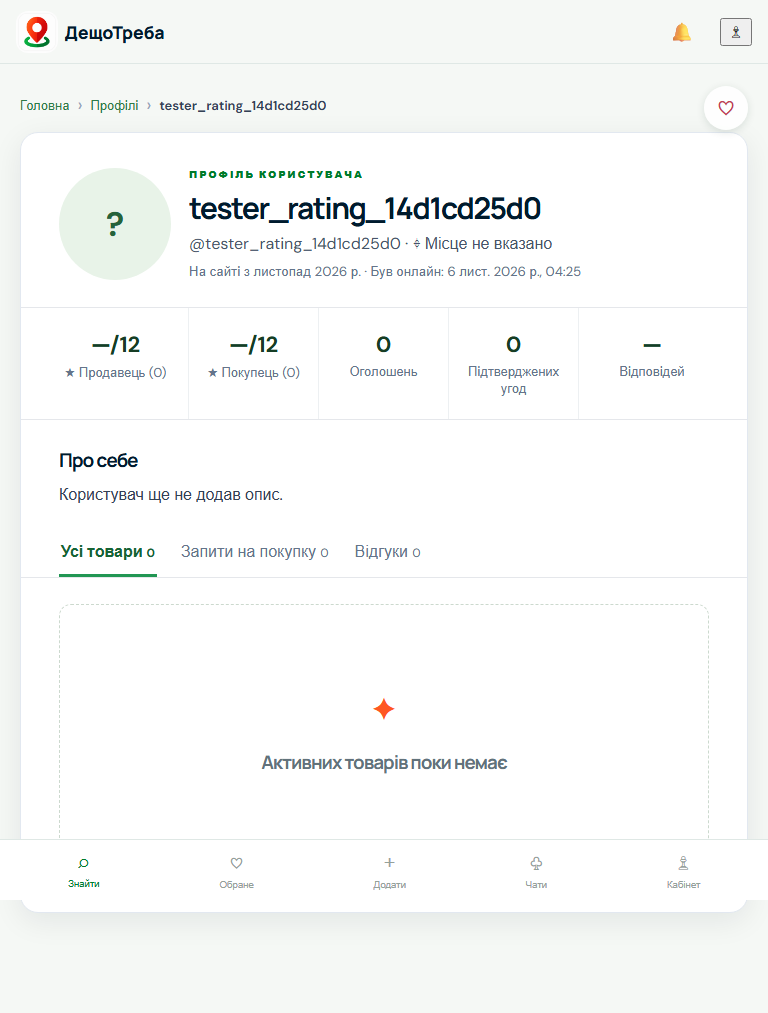
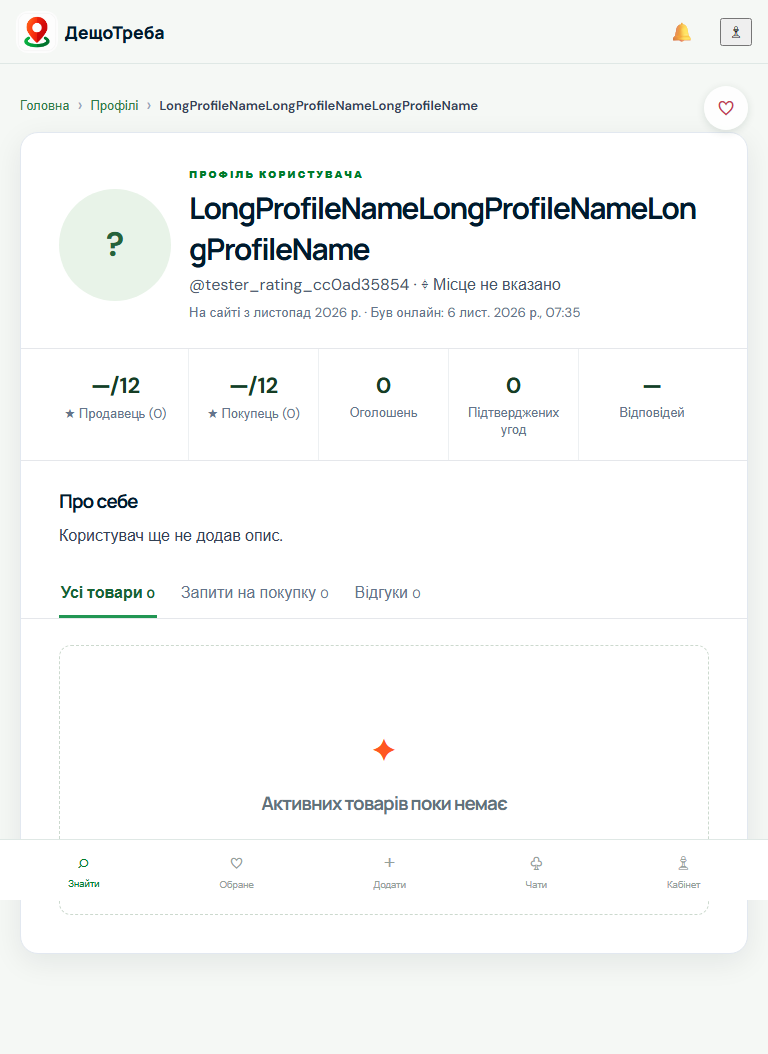
Виправити рейтинги після скасування угоди

diff --git a/frontend/src/App.css b/frontend/src/App.css
@@ -17,7 +17,7 @@
 .detail-actions{display:flex;gap:12px;align-items:center;margin-top:16px}
 .detail-respond-hint{color:#64748b;font-size:13px;margin-top:12px}
 .public-detail-page{max-width:1080px;margin:0 auto;padding:32px 20px}.public-detail-page>.text-button{display:inline-block;margin-bottom:20px}.listing-detail-page,.profile-public-page{background:#fff;border:1px solid #e2e8f0;border-radius:18px;overflow:hidden;box-shadow:0 8px 30px rgba(15,23,42,.08)}.listing-detail-page{display:grid;grid-template-columns:minmax(280px,1fr) minmax(320px,1fr)}.listing-detail-page>.listing-picture{min-height:360px}.listing-detail-page>.listing-picture img{width:100%;height:100%;object-fit:cover}.listing-detail-page .detail-body{padding:32px}.detail-body>.outline-button,.detail-body>.primary-button{display:inline-block;margin:12px 8px 0 0}.request-detail-page{display:block;max-width:760px}.profile-public-page{max-width:760px;padding:32px}.profile-public-page header{display:flex;gap:18px;align-items:center}.profile-public-page header img{width:88px;height:88px;border-radius:50%;object-fit:cover}.profile-public-page h1,.listing-detail-page h1{margin:.35rem 0}.request-card h3 a{color:inherit;text-decoration:none}.request-card h3 a:hover{text-decoration:underline}@media(max-width:700px){.public-detail-page{padding:20px 14px}.listing-detail-page{grid-template-columns:1fr}.listing-detail-page>.listing-picture{min-height:240px}.listing-detail-page .detail-body,.profile-public-page{padding:22px}}
-.profile-public-page{max-width:980px;padding:0;background:#fff}.public-profile-header{padding:34px 38px 26px;display:flex;align-items:center;gap:22px;border-bottom:1px solid #e5e7eb}.public-profile-avatar{width:112px;height:112px;flex:0 0 112px;border-radius:50%;overflow:hidden;background:#e8f3e8;color:#25633a;display:grid;place-items:center;font-size:34px}.public-profile-avatar img{width:100%!important;height:100%!important;border-radius:0!important;object-fit:cover}.public-profile-title{min-width:0;flex:1}.public-profile-title h1{font-size:30px}.public-profile-title p{margin:5px 0;color:#475569}.public-profile-title small{color:#64748b}.profile-call{white-space:nowrap}.public-profile-stats{display:grid;grid-template-columns:repeat(5,1fr);padding:0 38px;border-bottom:1px solid #e5e7eb}.public-profile-stats>div{padding:22px 16px;border-right:1px solid #edf0f2;text-align:center}.public-profile-stats>div:first-child{padding-left:0}.public-profile-stats>div:last-child{border-right:0;padding-right:0}.public-profile-stats b{display:block;font-size:22px;color:#163d25}.public-profile-stats span{display:block;margin-top:4px;color:#64748b;font-size:13px}.public-profile-bio{padding:27px 38px 18px}.public-profile-bio h2{margin:0 0 9px;font-size:19px}.public-profile-bio p{white-space:pre-line;line-height:1.6;color:#334155;margin:0}.public-profile-tabs{display:flex;gap:22px;padding:0 38px;border-bottom:1px solid #e5e7eb}.public-profile-tabs button{border:0;border-bottom:3px solid transparent;background:transparent;padding:15px 2px 12px;color:#64748b;font:inherit;cursor:pointer}.public-profile-tabs button.active{color:#176434;border-color:#219653;font-weight:700}.public-profile-tabs small{font-size:12px}.public-profile-content{padding:26px 38px 38px}.profile-request-list,.profile-review-list{display:grid;gap:12px}.profile-request-row{display:flex;justify-content:space-between;align-items:center;gap:20px;padding:16px 18px;border:1px solid #e2e8f0;border-radius:12px;color:#1e293b;text-decoration:none}.profile-request-row:hover{border-color:#66a77c;background:#f8fcf8}.profile-request-row span{display:grid;gap:4px}.profile-request-row small{color:#64748b}.profile-request-row>span:last-child{text-align:right}.profile-review{padding:17px 18px;border:1px solid #e2e8f0;border-radius:12px}.profile-review div{display:flex;justify-content:space-between;gap:12px}.profile-review b{color:#d78b16;letter-spacing:1px}.profile-review small{color:#64748b}.profile-review p{margin:10px 0 0;color:#334155}@media(max-width:700px){.profile-public-page{padding:0}.public-profile-header{padding:25px 20px;align-items:flex-start;flex-wrap:wrap}.public-profile-avatar{width:76px;height:76px;flex-basis:76px;font-size:24px}.public-profile-title h1{font-size:24px}.profile-call{width:100%}.public-profile-stats{padding:0 12px;grid-template-columns:repeat(2,1fr)}.public-profile-stats>div{padding:15px 8px;border-bottom:1px solid #edf0f2}.public-profile-stats>div:nth-child(2){border-right:0}.public-profile-bio,.public-profile-content{padding-left:20px;padding-right:20px}.public-profile-tabs{padding:0 20px;gap:14px;overflow-x:auto}.public-profile-tabs button{white-space:nowrap;font-size:14px}.profile-request-row{align-items:flex-start}.profile-request-row>span:last-child{font-size:13px}}
+.profile-public-page{max-width:980px;padding:0;background:#fff}.public-profile-header{padding:34px 38px 26px;display:flex;align-items:center;gap:22px;border-bottom:1px solid #e5e7eb}.public-profile-avatar{width:112px;height:112px;flex:0 0 112px;border-radius:50%;overflow:hidden;background:#e8f3e8;color:#25633a;display:grid;place-items:center;font-size:34px}.public-profile-avatar img{width:100%!important;height:100%!important;border-radius:0!important;object-fit:cover}.public-profile-title{min-width:0;flex:1}.public-profile-title h1{font-size:30px;overflow-wrap:anywhere}.public-profile-title p{overflow-wrap:anywhere}.public-profile-title p{margin:5px 0;color:#475569}.public-profile-title small{color:#64748b}.profile-call{white-space:nowrap}.public-profile-stats{display:grid;grid-template-columns:repeat(5,1fr);padding:0 38px;border-bottom:1px solid #e5e7eb}.public-profile-stats>div{padding:22px 16px;border-right:1px solid #edf0f2;text-align:center}.public-profile-stats>div:first-child{padding-left:0}.public-profile-stats>div:last-child{border-right:0;padding-right:0}.public-profile-stats b{display:block;font-size:22px;color:#163d25}.public-profile-stats span{display:block;margin-top:4px;color:#64748b;font-size:13px}.public-profile-bio{padding:27px 38px 18px}.public-profile-bio h2{margin:0 0 9px;font-size:19px}.public-profile-bio p{white-space:pre-line;line-height:1.6;color:#334155;margin:0}.public-profile-tabs{display:flex;gap:22px;padding:0 38px;border-bottom:1px solid #e5e7eb}.public-profile-tabs button{border:0;border-bottom:3px solid transparent;background:transparent;padding:15px 2px 12px;color:#64748b;font:inherit;cursor:pointer}.public-profile-tabs button.active{color:#176434;border-color:#219653;font-weight:700}.public-profile-tabs small{font-size:12px}.public-profile-content{padding:26px 38px 38px}.profile-request-list,.profile-review-list{display:grid;gap:12px}.profile-request-row{display:flex;justify-content:space-between;align-items:center;gap:20px;padding:16px 18px;border:1px solid #e2e8f0;border-radius:12px;color:#1e293b;text-decoration:none}.profile-request-row:hover{border-color:#66a77c;background:#f8fcf8}.profile-request-row span{display:grid;gap:4px}.profile-request-row small{color:#64748b}.profile-request-row>span:last-child{text-align:right}.profile-review{padding:17px 18px;border:1px solid #e2e8f0;border-radius:12px}.profile-review div{display:flex;justify-content:space-between;gap:12px}.profile-review b{color:#d78b16;letter-spacing:1px}.profile-review small{color:#64748b}.profile-review p{margin:10px 0 0;color:#334155}@media(max-width:700px){.profile-public-page{padding:0}.public-profile-header{padding:25px 20px;align-items:flex-start;flex-wrap:wrap}.public-profile-avatar{width:76px;height:76px;flex-basis:76px;font-size:24px}.public-profile-title h1{font-size:24px}.profile-call{width:100%}.public-profile-stats{padding:0 12px;grid-template-columns:repeat(2,1fr)}.public-profile-stats>div{padding:15px 8px;border-bottom:1px solid #edf0f2}.public-profile-stats>div:nth-child(2){border-right:0}.public-profile-bio,.public-profile-content{padding-left:20px;padding-right:20px}.public-profile-tabs{padding:0 20px;gap:14px;overflow-x:auto}.public-profile-tabs button{white-space:nowrap;font-size:14px}.profile-request-row{align-items:flex-start}.profile-request-row>span:last-child{font-size:13px}}
 .detail-market-header{position:relative;z-index:1}.listing-page-layout{display:grid;grid-template-columns:minmax(0,1fr) 270px;gap:22px;align-items:start}.listing-page-layout .listing-detail-page{display:grid;grid-template-columns:minmax(280px,.9fr) minmax(320px,1.1fr)}.listing-page-layout .request-detail-page{display:block}.listing-description{margin-top:26px;padding-top:22px;border-top:1px solid #e5e7eb}.listing-description h2{font-size:18px;margin:0 0 10px}.listing-description p{line-height:1.65;color:#475569}.listing-person-card{background:#fff;border:1px solid #e2e8f0;border-radius:16px;padding:18px;box-shadow:0 4px 16px rgba(15,23,42,.05)}.listing-person-heading{display:flex;align-items:center;gap:12px}.listing-person-avatar{width:48px;height:48px;flex:0 0 48px;border-radius:50%;overflow:hidden;background:#e8f3e8;color:#1d6a39;display:grid;place-items:center;font-weight:700}.listing-person-avatar img{width:100%;height:100%;object-fit:cover}.listing-person-heading>div:last-child{display:grid;gap:2px;min-width:0}.listing-person-heading small,.listing-person-heading span,.listing-person-card>p{font-size:12px;color:#64748b}.listing-person-heading strong{font-size:15px}.listing-person-card>p{margin:16px 0 10px}.listing-person-stats{display:flex;gap:10px;padding:10px 0 15px;border-top:1px solid #edf0f2}.listing-person-stats span{font-size:11px;color:#64748b;display:grid;gap:2px}.listing-person-stats b{font-size:15px;color:#1f5130}@media(max-width:900px){.listing-page-layout{grid-template-columns:1fr}.listing-page-layout .listing-detail-page{grid-template-columns:1fr}.listing-person-card{max-width:none}.listing-person-stats{gap:30px}}@media(max-width:700px){.detail-market-header .market-header-inner{padding:10px 14px}.detail-market-header .market-add{display:none}.detail-market-header .market-account{font-size:12px}.listing-page-layout .listing-detail-page .detail-body{padding:22px}}
 .breadcrumbs{display:flex;align-items:center;flex-wrap:wrap;gap:8px;margin:0 0 18px;color:#64748b;font-size:13px}.breadcrumbs a{color:#2d7c47;text-decoration:none}.breadcrumbs a:hover{text-decoration:underline}.breadcrumbs span{display:flex;align-items:center;gap:8px}.breadcrumbs i{font-style:normal;color:#94a3b8;font-size:18px;line-height:1}.breadcrumbs b{color:#334155;font-weight:600;max-width:360px;overflow:hidden;text-overflow:ellipsis;white-space:nowrap}
 .main-area{display:flex;flex-direction:column}.main-area>.topbar{order:-2}.main-area>.view-breadcrumbs{order:-1;margin:18px clamp(16px,3vw,40px) 0}.main-area>.view-breadcrumbs b{max-width:min(50vw,520px)}@media(max-width:560px){.main-area>.view-breadcrumbs{flex-wrap:nowrap;overflow:hidden;margin:12px 16px 0}.main-area>.view-breadcrumbs>a:first-child{display:none}.main-area>.view-breadcrumbs span{min-width:0}.main-area>.view-breadcrumbs b,.main-area>.view-breadcrumbs a{overflow:hidden;text-overflow:ellipsis;white-space:nowrap}}
@@ -134,3 +134,5 @@
 .search-bar > input[type="search"]{flex:1 1 55%;min-width:12rem;color:var(--ink)}
 .search-bar > .settlement-picker{flex:0 1 320px;width:auto;min-width:0}
 @media(max-width:600px){.search-bar{display:grid;grid-template-columns:minmax(0,1fr) auto;align-items:end}.search-bar > span{display:none}.search-bar > input[type="search"]{grid-column:1 / -1;width:100%;min-width:0;border-bottom:1px solid var(--line)}.search-bar > .settlement-picker{grid-column:1;width:100%}.search-bar > button{grid-column:2;min-height:44px}}
+
+.public-detail-page:has(.profile-public-page) > .breadcrumbs span{min-width:0;max-width:100%}.public-detail-page:has(.profile-public-page) > .breadcrumbs b{min-width:0}

diff --git a/docs/qa/step-29/profile.spec.ts b/docs/qa/step-29/profile.spec.ts
@@ -7,6 +7,8 @@ test('public profile displays both role ratings at six widths', async ({ browser
     const username = `tester_rating_${suffix}`
     const result = await context.request.post('/api/auth/register', { data: { username, email: `${username}@example.com`, countryCode: 'UA', phone: `+38067${String(Math.floor(Math.random() * 1e7)).padStart(7, '0')}`, password: 'StrongPassword1', passwordConfirmation: 'StrongPassword1' } })
     expect(result.status()).toBe(201)
+    const longName = 'LongProfileName'.repeat(3)
+    expect((await context.request.patch('/api/profile/me', { data: { nickname: longName } })).status()).toBe(200)
     const page = await context.newPage()
     await page.goto(`/profiles/${username}`)
     for (const width of [320, 390, 768, 1024, 1280, 1440]) {
@@ -14,6 +16,9 @@ test('public profile displays both role ratings at six widths', async ({ browser
         await expect(page.getByText('★ Продавець (0)')).toBeVisible()
         await expect(page.getByText('★ Покупець (0)')).toBeVisible()
         expect(await page.evaluate(() => document.documentElement.scrollWidth <= innerWidth)).toBeTruthy()
+        const title = page.locator('.public-profile-title h1')
+        await expect(title).toHaveText(longName)
+        expect(await title.evaluate(element => element.scrollWidth <= element.clientWidth)).toBeTruthy()
         await page.screenshot({ path: `docs/qa/step-29/profile-${width}.png`, fullPage: true })
     }
     await context.close()
@@ -59,9 +64,8 @@ test('Product and Buy Request use the relevant participant rating', async ({ bro
     expect((await seller.request.post(`/api/orders/${orderId}/complete`)).status()).toBe(200)
     for (const [context, rating, role] of [[buyer, '12', 'продавця'], [seller, '7', 'покупця']] as const) {
         const reviewPage = await context.newPage()
-        await reviewPage.setViewportSize({ width: 1280, height: 900 })
-        await reviewPage.goto('/')
-        await reviewPage.getByRole('button', { name: /Мої угоди/ }).first().click()
+        await reviewPage.setViewportSize({ width: 390, height: 900 })
+        await reviewPage.goto(`/orders?order=${orderId}`)
         const card = reviewPage.locator(`#order-${orderId}`)
         await card.getByRole('button', { name: 'Залишити відгук' }).click()
         const form = card.getByRole('form', { name: new RegExp(`Відгук про ${role}`) })
@@ -69,7 +73,7 @@ test('Product and Buy Request use the relevant participant rating', async ({ bro
         await form.locator('[name=communicationRating]').selectOption(rating)
         await form.locator('[name=complianceRating]').selectOption(rating)
         if (role === 'продавця') await form.locator('[name=descriptionRating]').selectOption(rating)
-        await reviewPage.screenshot({ path: `docs/qa/step-29/review-${role}.png`, fullPage: true })
+        await reviewPage.screenshot({ path: `docs/qa/step-29/review-390-${role}.png`, fullPage: true })
         await form.getByRole('button', { name: 'Залишити відгук' }).click()
         await expect(card.getByText('Ваш відгук збережено.')).toBeVisible()
         await reviewPage.close()
@@ -83,6 +87,32 @@ test('Product and Buy Request use the relevant participant rating', async ({ bro
         await expect(page.locator('.listing-person-card')).toContainText('★ 7 · 1 відгуків')
         await page.screenshot({ path: `docs/qa/step-29/request-rated-${width}.png`, fullPage: true })
     }
+    const ownPage = await seller.newPage()
+    await ownPage.goto('/settings/profile')
+    await expect(ownPage.locator('.profile-rating')).toContainText('12/12')
+    await expect(ownPage.locator('.profile-rating')).toContainText('Покупець')
+    await ownPage.screenshot({ path: 'docs/qa/step-29/own-profile-390.png', fullPage: true })
+    const nextRequest = await buyer.request.post('/api/buy-requests', { data: { categoryId, title: `Next request ${suffix}`, description: '', delivery: 'no', minPrice: 0, maxPrice: 150, quantity: 2, unit: 'kg', currency: 'UAH', geoArea: 'Київська область', fulfillmentMode: 'multiple_sellers' } })
+    expect(nextRequest.status()).toBe(201)
+    const nextId = (await nextRequest.json()).buyRequest.id
+    const nextOffer = await seller.request.post(`/api/buy-requests/${nextId}/offers`, { data: { requestKey: randomUUID(), creationMode: 'manual', title: 'Seller rating check', quantity: 2, unit: 'kg', price: 100, currency: 'UAH', delivery: 'Самовивіз' } })
+    expect(nextOffer.status()).toBe(201)
+    for (const width of [390, 1280]) {
+        await page.setViewportSize({ width, height: 900 })
+        await page.goto(`/buy-requests/${nextId}`)
+        await expect(page.locator('.deal-offer')).toContainText('★ 12/12')
+        await page.screenshot({ path: `docs/qa/step-29/offer-rating-${width}.png`, fullPage: true })
+    }
+    await page.getByRole('button', { name: 'Написати продавцю' }).first().click()
+    await expect(page).toHaveURL(/\/messages\//)
+    await expect(page.getByText(`tester_s_${suffix}`).first()).toBeVisible()
+    await page.screenshot({ path: 'docs/qa/step-29/context-chat-buyer.png', fullPage: true })
+    const sellerChat = await seller.newPage()
+    await sellerChat.goto(page.url())
+    await expect(sellerChat.getByRole('region', { name: `Next request ${suffix}` })).toContainText(`tester_b_${suffix}`)
+    await sellerChat.screenshot({ path: 'docs/qa/step-29/context-chat-seller.png', fullPage: true })
+    await sellerChat.close()
+    await ownPage.close()
     await buyer.close()
     await seller.close()
 })

diff --git a/backend/src/deal-workflow.integration.test.ts b/backend/src/deal-workflow.integration.test.ts
@@ -116,6 +116,7 @@ if (hasDatabase) {
                 const { oid } = await setup(2)
                 const id = await select(oid, 2)
                 await complete(id, 2)
+                await pool.query('UPDATE orders SET workflow_version = 1, buyer_completed_at = NULL, seller_completed_at = NULL WHERE id = $1', [id])
                 expect((await buyer.post(`/api/orders/${id}/reviews`).send({ rating })).status).toBe(201)
                 expect((await seller.post(`/api/orders/${id}/reviews`).send({ rating: 6 })).status).toBe(201)
                 await pool.query("UPDATE reviews SET created_at = '2020-01-01' WHERE order_id = $1", [id])
@@ -126,6 +127,48 @@ if (hasDatabase) {
             await publishDueReviews()
             await publishDueReviews()
             expect((await buyer.get(`/api/profiles/${names[1]}`)).body.profile.sellerRating).toEqual(profile.sellerRating)
+        }, 120000)
+        it('keeps role ratings separate and excludes reviews only after final cancellation', async () => {
+            const sellerBefore = (await buyer.get(`/api/profiles/${names[1]}`)).body.profile
+            const buyerBefore = (await buyer.get(`/api/profiles/${names[0]}`)).body.profile
+            const { oid } = await setup(4)
+            const id = await select(oid, 4)
+            await complete(id, 4)
+            expect((await buyer.post(`/api/orders/${id}/reviews`).send({ rating: 12 })).status).toBe(201)
+            expect((await seller.post(`/api/orders/${id}/reviews`).send({ rating: 4 })).status).toBe(201)
+            const created = await seller.post('/api/buy-requests').send({ categoryId, title: 'Reverse role test', description: '', delivery: 'no', minPrice: 0, maxPrice: 150, quantity: 4, unit: 'kg', currency: 'UAH', geoArea: 'Kyiv', fulfillmentMode: 'multiple_sellers' })
+            expect(created.status).toBe(201)
+            const reverseOffer = await buyer.post(`/api/buy-requests/${created.body.buyRequest.id}/offers`).send({ requestKey: offerTestKey(), quantity: 4, unit: 'kg', price: 100, currency: 'UAH', delivery: 'pickup' })
+            expect(reverseOffer.status).toBe(201)
+            const accepted = await seller.post(`/api/offers/${reverseOffer.body.offer.id}/accept`).send({ expectedRevision: await offerRevision(reverseOffer.body.offer.id), quantity: 4, selectionKey: randomUUID() })
+            expect(accepted.status).toBe(201)
+            const reverseId = accepted.body.order.id
+            expect((await buyer.post(`/api/orders/${reverseId}/seller-confirm`)).status).toBe(200)
+            expect((await seller.post(`/api/orders/${reverseId}/complete`).send({ actualQuantity: 4 })).status).toBe(200)
+            expect((await buyer.post(`/api/orders/${reverseId}/complete`)).status).toBe(200)
+            expect((await seller.post(`/api/orders/${reverseId}/reviews`).send({ rating: 8 })).status).toBe(201)
+            expect((await buyer.post(`/api/orders/${reverseId}/reviews`).send({ rating: 6 })).status).toBe(201)
+            const withBoth = (await buyer.get(`/api/profiles/${names[1]}`)).body.profile
+            expect(withBoth.sellerRating.count).toBe(sellerBefore.sellerRating.count + 1)
+            expect(withBoth.buyerRating.count).toBe(sellerBefore.buyerRating.count + 1)
+            expect(withBoth.buyerRating.average).toBe(6)
+            const otherAfter = (await buyer.get(`/api/profiles/${names[0]}`)).body.profile
+            expect(otherAfter.buyerRating.count).toBe(buyerBefore.buyerRating.count + 1)
+            expect(otherAfter.sellerRating.average).toBe(8)
+            expect(withBoth.sellerRating.average).not.toBe(withBoth.buyerRating.average)
+            const rowsBefore = (await pool.query('SELECT * FROM reviews WHERE order_id=$1 ORDER BY id', [id])).rows
+            expect((await buyer.post(`/api/orders/${id}/dispute`).send({ reason: 'test dispute' })).status).toBe(200)
+            expect((await buyer.get(`/api/profiles/${names[1]}`)).body.profile.sellerRating).toEqual(withBoth.sellerRating)
+            expect((await buyer.post(`/api/orders/${id}/dispute/resolve`).send({ outcome: 'cancelled', resolution: 'test cancellation' })).status).toBe(200)
+            expect((await seller.post(`/api/orders/${id}/dispute/resolve`).send({ outcome: 'cancelled', resolution: 'test cancellation' })).status).toBe(200)
+            const after = (await buyer.get(`/api/profiles/${names[1]}`)).body
+            expect(after.profile.sellerRating).toEqual(sellerBefore.sellerRating)
+            expect(after.profile.buyerRating).toEqual(withBoth.buyerRating)
+            expect((await buyer.get(`/api/profiles/${names[0]}`)).body.profile.buyerRating).toEqual(buyerBefore.buyerRating)
+            expect(after.reviews.some((review: any) => review.orderId === id)).toBe(false)
+            const parallel = await Promise.all([buyer.get(`/api/profiles/${names[1]}`), buyer.get(`/api/profiles/${names[1]}/reviews`)])
+            expect(parallel[0].body.reviews.map((review: any) => review.id)).toEqual(parallel[1].body.reviews.map((review: any) => review.id))
+            expect((await pool.query('SELECT * FROM reviews WHERE order_id=$1 ORDER BY id', [id])).rows).toEqual(rowsBefore)
         }, 120000)
         it('requires positive unreserved quantity for direct activation', async () => {
             const { oid, productId } = await setup(5, 'multiple_sellers', true, false, 5)

diff --git a/backend/src/profiles.ts b/backend/src/profiles.ts
@@ -41,6 +41,7 @@ type ProfileRow = {
     buyer_rating_count: number
     created_at: Date
     last_seen_at: Date | null
+    public_reviews?: unknown[]
 }
 
 export type PublicProfileDto = {
@@ -56,6 +57,7 @@ export type PublicProfileDto = {
     exactAddress?: string | null
     mapLocation?: { mode: 'approximate' | 'address' | 'pin'; latitude: number | null; longitude: number | null; consent?: boolean }
     statistics: { listingsCount: number; completedDealsCount: number; responseRate: number | null }
+    /** @deprecated Mixed historical aggregate; use sellerRating and buyerRating. */
     ratingSummary: { average: number | null; count: number }
     sellerRating: { average: number | null; count: number }
     buyerRating: { average: number | null; count: number }
@@ -81,10 +83,17 @@ const profileSelect = `
            location_display, exact_address, settlement_code, address_settlement_code, address_latitude, address_longitude, phone_visibility, phone_disclosure_consent,
            map_location_mode, public_latitude, public_longitude,
            listings_count, (SELECT count(*)::int FROM orders o WHERE (o.buyer_id = users.id OR o.seller_id = users.id) AND o.status = 'completed' AND o.buyer_completed_at IS NOT NULL AND o.seller_completed_at IS NOT NULL) AS completed_deals_count, response_rate, rating_sum, rating_count, created_at, last_seen_at,
-           (SELECT round(avg(r.rating), 2) FROM reviews r JOIN orders o ON o.id = r.order_id WHERE r.reviewee_id = users.id AND r.published_at IS NOT NULL AND o.seller_id = users.id AND o.buyer_id = r.reviewer_id) AS seller_rating_average,
-           (SELECT count(*)::int FROM reviews r JOIN orders o ON o.id = r.order_id WHERE r.reviewee_id = users.id AND r.published_at IS NOT NULL AND o.seller_id = users.id AND o.buyer_id = r.reviewer_id) AS seller_rating_count,
-           (SELECT round(avg(r.rating), 2) FROM reviews r JOIN orders o ON o.id = r.order_id WHERE r.reviewee_id = users.id AND r.published_at IS NOT NULL AND o.buyer_id = users.id AND o.seller_id = r.reviewer_id) AS buyer_rating_average,
-           (SELECT count(*)::int FROM reviews r JOIN orders o ON o.id = r.order_id WHERE r.reviewee_id = users.id AND r.published_at IS NOT NULL AND o.buyer_id = users.id AND o.seller_id = r.reviewer_id) AS buyer_rating_count
+           (SELECT round(avg(r.rating), 2) FROM reviews r JOIN orders o ON o.id = r.order_id WHERE r.reviewee_id = users.id AND r.published_at IS NOT NULL AND o.status <> 'cancelled' AND o.seller_id = users.id AND o.buyer_id = r.reviewer_id) AS seller_rating_average,
+           (SELECT count(*)::int FROM reviews r JOIN orders o ON o.id = r.order_id WHERE r.reviewee_id = users.id AND r.published_at IS NOT NULL AND o.status <> 'cancelled' AND o.seller_id = users.id AND o.buyer_id = r.reviewer_id) AS seller_rating_count,
+           (SELECT round(avg(r.rating), 2) FROM reviews r JOIN orders o ON o.id = r.order_id WHERE r.reviewee_id = users.id AND r.published_at IS NOT NULL AND o.status <> 'cancelled' AND o.buyer_id = users.id AND o.seller_id = r.reviewer_id) AS buyer_rating_average,
+           (SELECT count(*)::int FROM reviews r JOIN orders o ON o.id = r.order_id WHERE r.reviewee_id = users.id AND r.published_at IS NOT NULL AND o.status <> 'cancelled' AND o.buyer_id = users.id AND o.seller_id = r.reviewer_id) AS buyer_rating_count,
+           (SELECT COALESCE(jsonb_agg(to_jsonb(rr) ORDER BY rr."createdAt" DESC), '[]'::jsonb) FROM (
+             SELECT r.id, r.order_id AS "orderId", r.rating, r.body, r.communication_rating AS "communicationRating", r.compliance_rating AS "complianceRating", r.description_rating AS "descriptionRating", r.created_at AS "createdAt", reviewer.username AS "reviewerUsername"
+             FROM reviews r JOIN orders o ON o.id = r.order_id JOIN users reviewer ON reviewer.id = r.reviewer_id
+             WHERE r.reviewee_id = users.id AND r.published_at IS NOT NULL AND o.status <> 'cancelled'
+               AND ((o.seller_id = users.id AND o.buyer_id = r.reviewer_id) OR (o.buyer_id = users.id AND o.seller_id = r.reviewer_id))
+             ORDER BY r.created_at DESC LIMIT 100
+           ) rr) AS public_reviews
     FROM users`
 
 const toNumberOrNull = (value: string | number | null) => value === null ? null : Number(value)
@@ -236,7 +245,7 @@ export const getPublicProfile = async (username: string, request: Request) => {
     if (!row) return { status: 404, body: { error: 'PROFILE_NOT_FOUND' } }
     const profile = toPublicProfile(row)
     if (row.phone_visibility === 'authenticated' && request.authUser) profile.phone = row.phone
-    return { status: 200, body: { profile } }
+    return { status: 200, body: { profile, reviews: row.public_reviews ?? [] } }
 }
 
 export const getPrivateProfile = async (user: AuthUser) => {

diff --git a/backend/src/community-service.ts b/backend/src/community-service.ts
@@ -203,7 +203,7 @@ export const publishDueReviews = async () => {
 
 export const listReviews = async (username: string) => {
     await publishDueReviews()
-    const result = await pool.query('SELECT r.id, r.order_id AS "orderId", r.rating, r.body, r.communication_rating AS "communicationRating", r.compliance_rating AS "complianceRating", r.description_rating AS "descriptionRating", r.created_at AS "createdAt", u.username AS "reviewerUsername" FROM reviews r JOIN users u ON u.id = r.reviewer_id JOIN users target ON target.id = r.reviewee_id WHERE target.username_normalized = $1 AND r.published_at IS NOT NULL ORDER BY r.created_at DESC LIMIT 100', [username.trim().toLowerCase()])
+    const result = await pool.query(`SELECT r.id, r.order_id AS "orderId", r.rating, r.body, r.communication_rating AS "communicationRating", r.compliance_rating AS "complianceRating", r.description_rating AS "descriptionRating", r.created_at AS "createdAt", u.username AS "reviewerUsername" FROM reviews r JOIN users u ON u.id = r.reviewer_id JOIN users target ON target.id = r.reviewee_id JOIN orders o ON o.id = r.order_id WHERE target.username_normalized = $1 AND r.published_at IS NOT NULL AND o.status <> 'cancelled' AND ((o.seller_id = target.id AND o.buyer_id = r.reviewer_id) OR (o.buyer_id = target.id AND o.seller_id = r.reviewer_id)) ORDER BY r.created_at DESC LIMIT 100`, [username.trim().toLowerCase()])
     return { status: 200, body: { reviews: result.rows } }
 }
 

diff --git a/frontend/src/App.tsx b/frontend/src/App.tsx
@@ -958,8 +958,8 @@ function PublicProfilePage({ username, user, onAccount, onCreate, favoriteKeys, 
     useEffect(() => {
         let active = true
         setError(''); setProfile(null)
-        Promise.all([request('/api/profiles/' + encodeURIComponent(username)), request('/api/products?limit=50&ownerUsername=' + encodeURIComponent(username)), request('/api/buy-requests?buyerUsername=' + encodeURIComponent(username)), request('/api/profiles/' + encodeURIComponent(username) + '/reviews')])
-            .then(([profileResult, productsResult, requestsResult, reviewsResult]) => { if (active) { setProfile(profileResult.profile); setProducts(productsResult.products); setBuyRequests(requestsResult.buyRequests); setReviews(reviewsResult.reviews) } })
+        Promise.all([request('/api/profiles/' + encodeURIComponent(username)), request('/api/products?limit=50&ownerUsername=' + encodeURIComponent(username)), request('/api/buy-requests?buyerUsername=' + encodeURIComponent(username))])
+            .then(([profileResult, productsResult, requestsResult]) => { if (active) { setProfile(profileResult.profile); setProducts(productsResult.products); setBuyRequests(requestsResult.buyRequests); setReviews(profileResult.reviews) } })
             .catch(error => { if (active) setError(error.message) })
         return () => { active = false }
     }, [username])

diff --git a/backend/src/buy-requests.ts b/backend/src/buy-requests.ts
@@ -98,7 +98,7 @@ const offerSelect = `SELECT o.*, o.xmin::text AS revision, u.username AS seller_
     p.settlement_code AS product_settlement_code, p.latitude AS product_latitude, p.longitude AS product_longitude, p.address_visibility AS product_address_visibility,
     r.status AS request_status,
     c.name AS request_category_name, c.image_index AS request_category_image_index,
-    (SELECT round(avg(rv.rating), 2) FROM reviews rv JOIN orders d ON d.id = rv.order_id WHERE rv.reviewee_id = u.id AND rv.published_at IS NOT NULL AND d.seller_id = u.id AND d.buyer_id = rv.reviewer_id) AS seller_rating,
+    (SELECT round(avg(rv.rating), 2) FROM reviews rv JOIN orders d ON d.id = rv.order_id WHERE rv.reviewee_id = u.id AND rv.published_at IS NOT NULL AND d.status <> 'cancelled' AND d.seller_id = u.id AND d.buyer_id = rv.reviewer_id) AS seller_rating,
     u.avatar_url AS seller_avatar,
     COALESCE((SELECT jsonb_agg(jsonb_build_object('url', op.url, 'alt', op.alt) ORDER BY op.sort_order, op.id) FROM offer_photos op WHERE op.offer_id = o.id),
         CASE WHEN o.creation_mode IS NULL THEN (SELECT jsonb_agg(jsonb_build_object('url', pp.url, 'alt', pp.alt) ORDER BY pp.sort_order, pp.id) FROM product_photos pp WHERE pp.product_id = o.product_id) ELSE NULL END,

diff --git a/docs/qa/step-29/FINAL_REVIEW.md b/docs/qa/step-29/FINAL_REVIEW.md
@@ -1,0 +1,23 @@
+# Step 29 — final reviewer corrections
+
+Base: `31d0c98ce70a1f69ea3d8b4fcea57e496fd24955`.
+
+## Rating and review semantics
+
+Published reviews from an order with status `cancelled` are excluded from seller and buyer rating aggregates, the seller offer rating and public review lists. The database rows are preserved. Opening a dispute on a completed order leaves its status `completed`; it therefore remains included until both sides resolve it as cancelled. Role validation requires both Deal participants to match the review's reviewer and reviewee. Existing publication and moderation fields are not modified.
+
+Public profile GET returns `profile` and a `reviews` array computed in the same PostgreSQL statement snapshot. The public profile UI consumes these together. The existing reviews endpoint uses the same published, role and cancellation filters; independent HTTP responses can represent different committed instants. The list remains capped at 100 while rating counts include all qualifying reviews. Opening a profile continues to publish due reviews through the pre-existing publication process.
+
+`ratingSummary` is a deprecated compatibility field: it is the old mixed aggregate, including the historical trigger semantics, and must not be treated as a role-specific score. Repository audit found no frontend rendering consumer, only retained TypeScript declarations and legacy backend compatibility tests. Canonical fields are `sellerRating` and `buyerRating`; removing the old field would break the existing API contract.
+
+## Verification
+
+- `npm run typecheck`: passed after the SQL syntax correction.
+- Full backend: 53 files passed, 1 skipped; 310 tests passed, 1 skipped. Subsequent test-only changes were run separately: cancellation, both roles and parallel profile/reviews request scenario passed. Security, direct Deal, ordinary Deal and regression suites included.
+- Legacy fixture: two completed orders changed to `workflow_version=1` with legacy null completion timestamps, historical-dated reviews and repeated publication; targeted test passed on isolated PostgreSQL. This is a reproducible fixture, not a copy of real data.
+- Chromium: 2 passed. Long nickname on public profile at 320, 390, 768, 1024, 1280 and 1440 px, including horizontal overflow check. Mutual reviews through UI at 390 px; own profile at 390 px; seller offer rating at 390/1280 px; Product and Buy Request at 390/1280 px. Context chat opened from both participant sessions: buyer at 1280 and seller at 390. The checked chat header does not itself display a numerical rating; no numerical rating assertion is claimed there. API setup created the test accounts, listings and completed Deal.
+- No migration added; test DB was isolated at 127.0.0.1:55436. Existing main DB and snapshots were not altered.
+
+## Remaining review points
+
+The old compatibility field is deliberately still mixed and does not implement the new role-specific cancellation rule. Contextual chat's checked header shows no numerical rating; the buyer screenshot shows a generic counterpart label in the open panel, so role identity in that particular panel remains unverified. The historical fixture reproduces legacy workflow data rather than replaying migration 033 on a pre-033 database. Sol should review these constraints, the status predicate, query cost, privacy and the one-statement snapshot contract.
